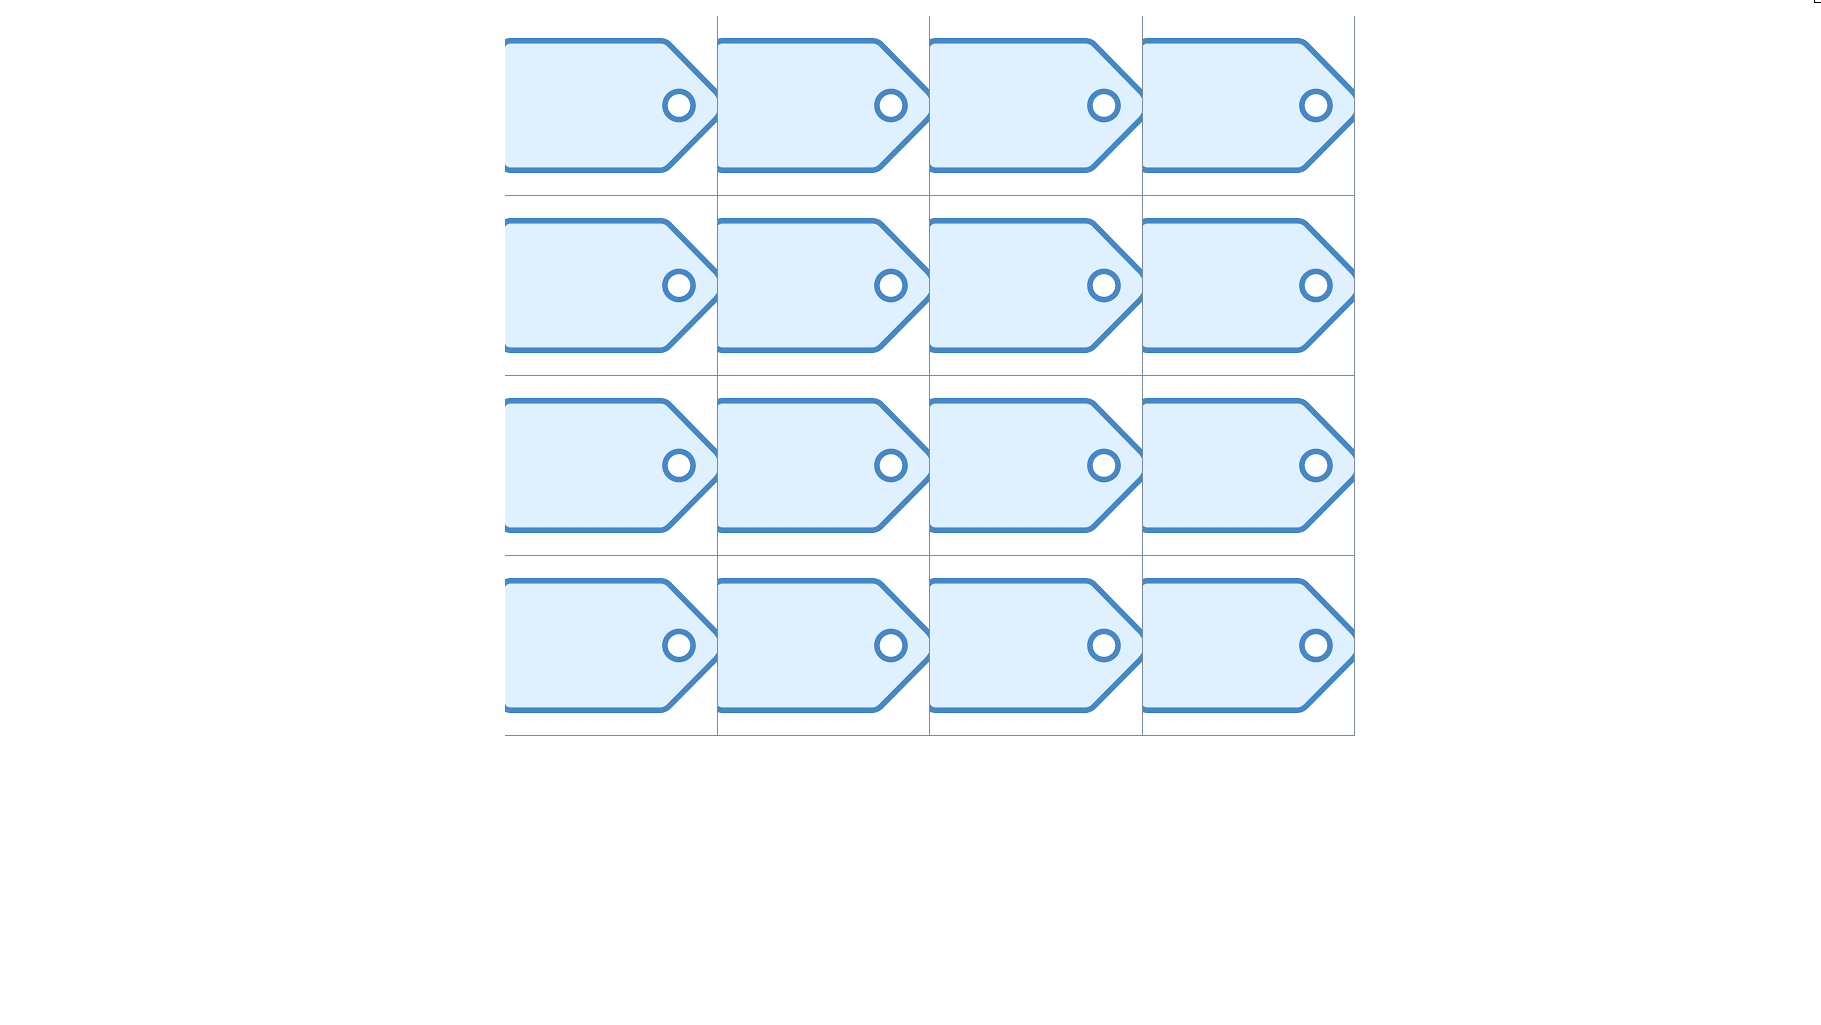
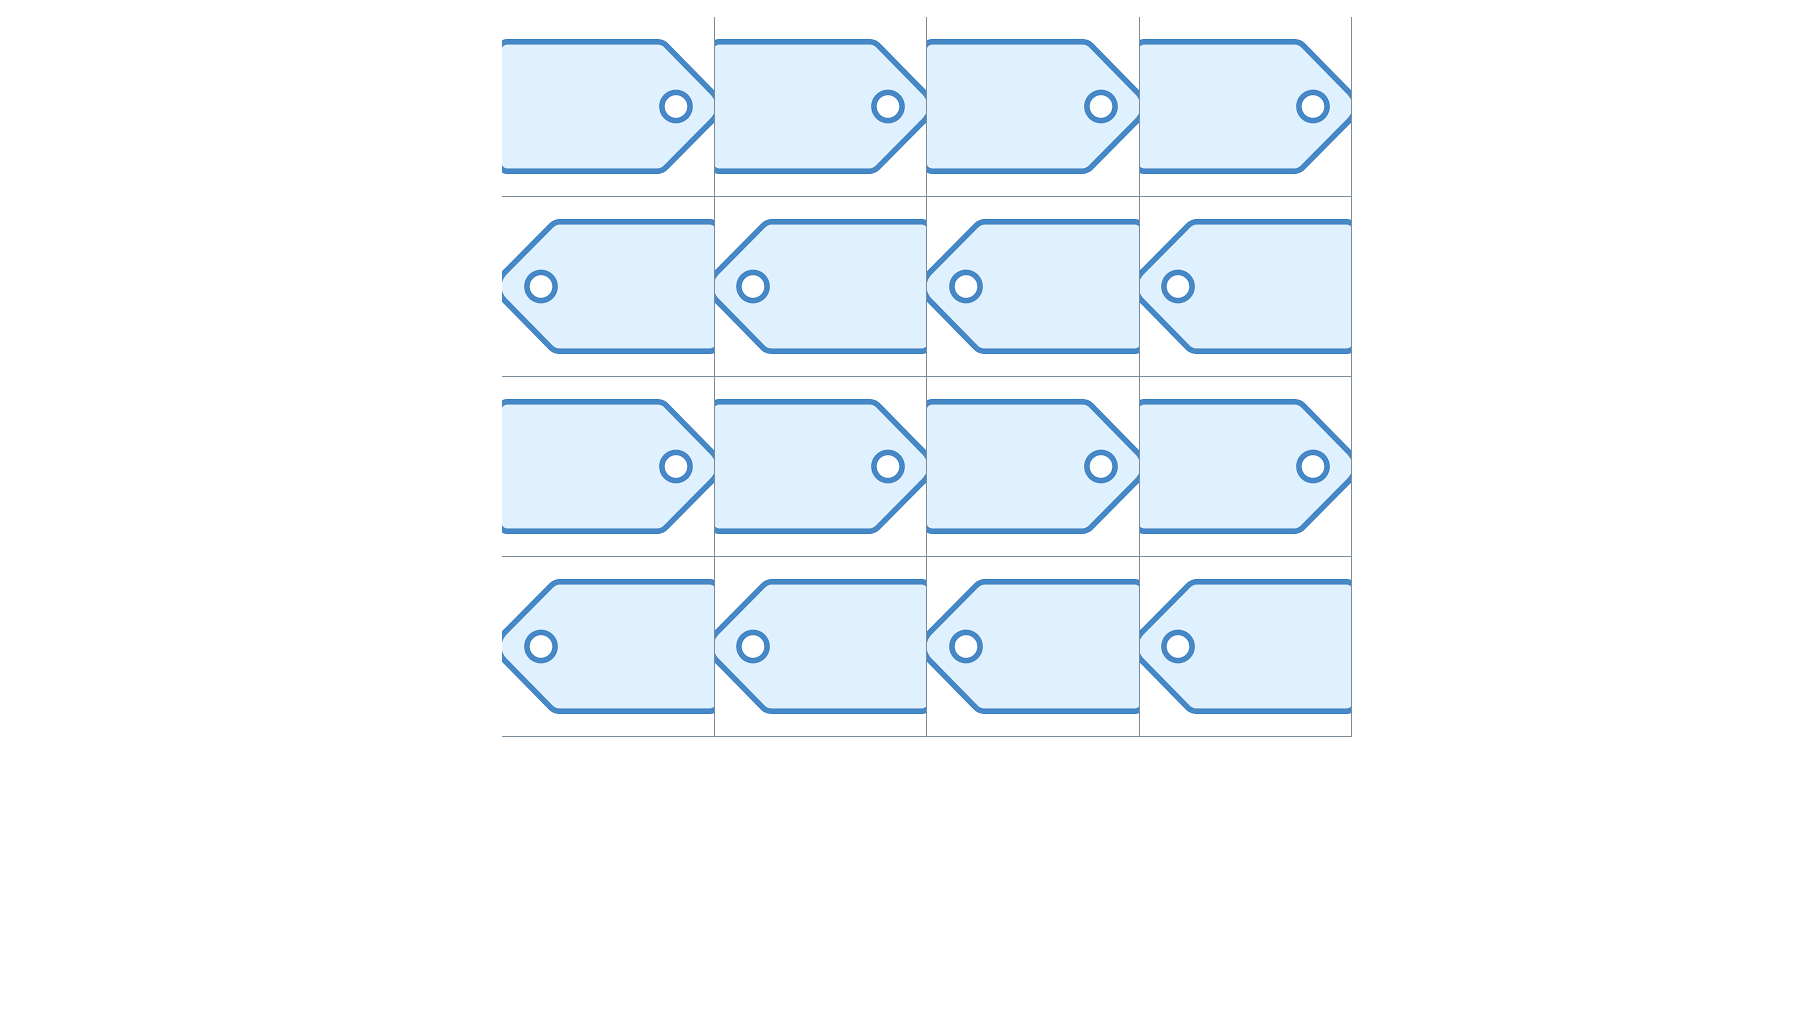
Actualizacion del mapa

diff --git a/src/src/interfaz/set_map.java b/src/src/interfaz/set_map.java
@@ -22,23 +22,24 @@ public class set_map {
         };
         //Definicion de imagen de celdas
         JLabel icon = new JLabel(new ImageIcon(getClass().getResource("label.png")));
+        JLabel icon_2 = new JLabel(new ImageIcon(getClass().getResource("label 2.png")));
 
         //Agregar celdas dependiendo del nivel
         if (tamano == 3) {
             tablemodel.addRow(new Object[]{icon, icon, icon});
-            tablemodel.addRow(new Object[]{icon, icon, icon});
+            tablemodel.addRow(new Object[]{icon_2, icon_2, icon_2});
             tablemodel.addRow(new Object[]{icon, icon, icon});
         }
         if (tamano == 4) {
             tablemodel.addRow(new Object[]{icon,icon,icon,icon});
+            tablemodel.addRow(new Object[]{icon_2,icon_2,icon_2,icon_2});
             tablemodel.addRow(new Object[]{icon,icon,icon,icon});
-            tablemodel.addRow(new Object[]{icon,icon,icon,icon});
-            tablemodel.addRow(new Object[]{icon,icon,icon,icon});
+            tablemodel.addRow(new Object[]{icon_2,icon_2,icon_2,icon_2});
         } else {
             tablemodel.addRow(new Object[]{icon,icon,icon,icon,icon});
+            tablemodel.addRow(new Object[]{icon_2,icon_2,icon_2,icon_2,icon_2});
             tablemodel.addRow(new Object[]{icon,icon,icon,icon,icon});
-            tablemodel.addRow(new Object[]{icon,icon,icon,icon,icon});
-            tablemodel.addRow(new Object[]{icon,icon,icon,icon,icon});
+            tablemodel.addRow(new Object[]{icon_2,icon_2,icon_2,icon_2,icon_2});
             tablemodel.addRow(new Object[]{icon,icon,icon,icon,icon});
 
         }

diff --git a/src/src/Main.java b/src/src/Main.java
@@ -24,8 +24,8 @@ public class Main {
         /*JPanel as = new JPanel();
         int i = 3;
         map mapa = new map(as,i);*/
-       selecter selec = new selecter();
-       /* int cell_width_3 = 580;
+        selecter selec = new selecter();
+        /*int cell_width_3 = 580;
         int cell_height_3 = 550;
 
         int cell_width_4 = 850;

diff --git a/src/src/interfaz/map.java b/src/src/interfaz/map.java
@@ -23,6 +23,7 @@ public class map {
             FondoPanel_4 fondo = new FondoPanel_4();
             frame.setContentPane(fondo);
 
+
         }
         else{
             ;
